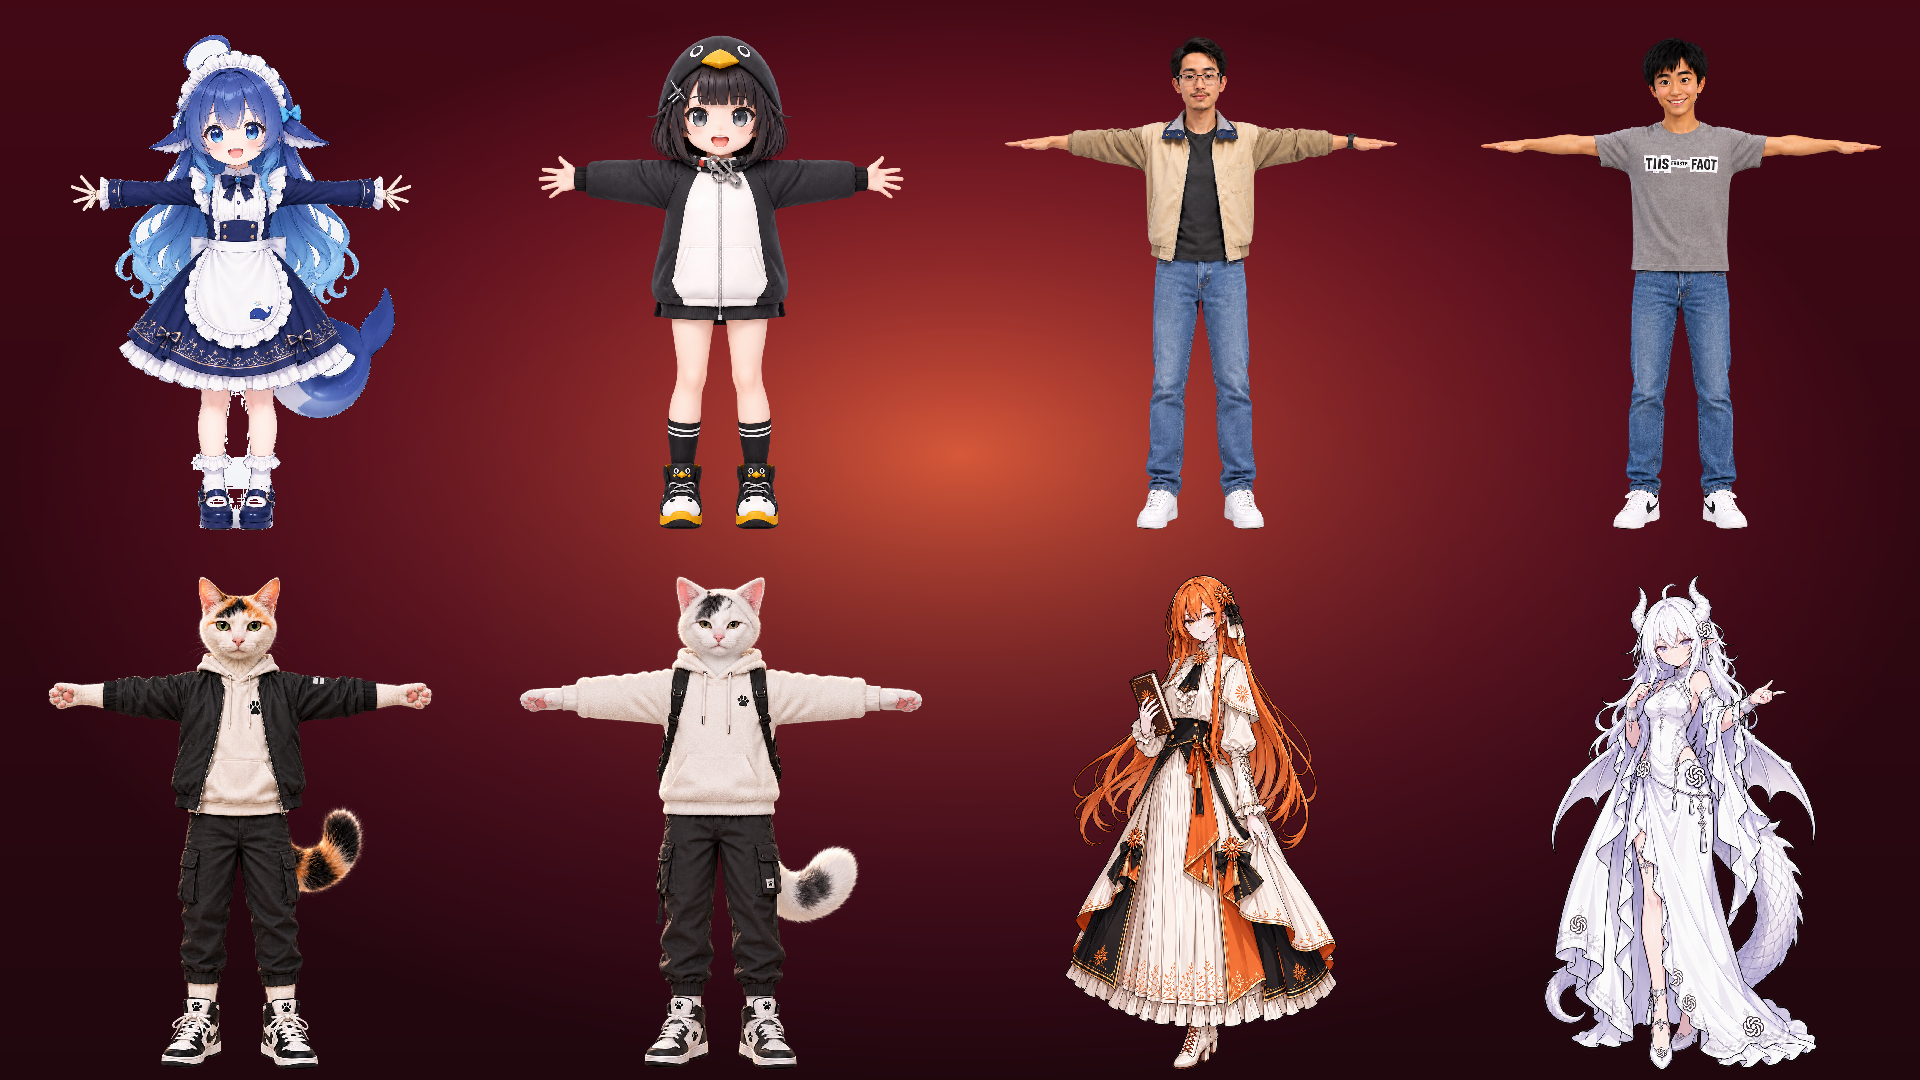
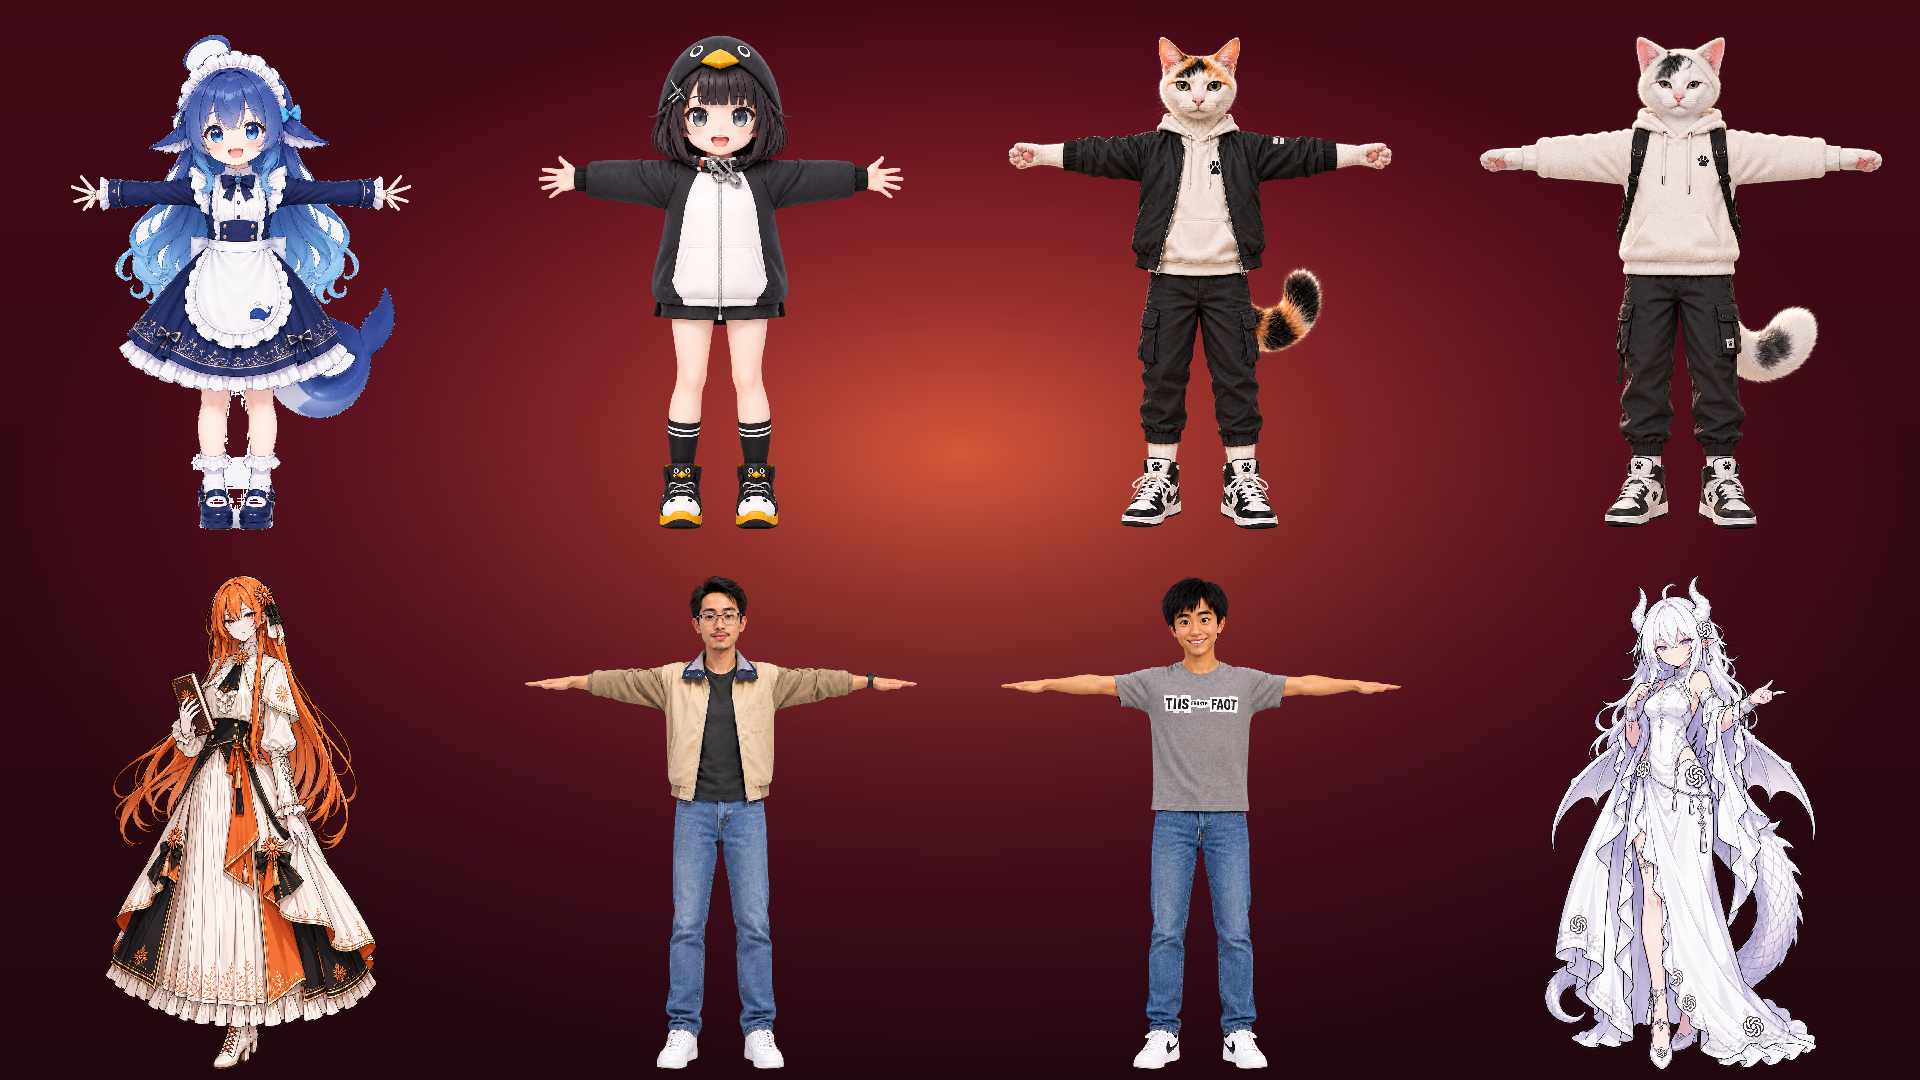
Center Feng and Tu, rotate all cast and move page links to second row

diff --git a/pv.js b/pv.js
@@ -29,7 +29,7 @@ const ARTS = {
     faces: [[181, 369], [588, 377], [919, 402], [1216, 372], [1486, 367], [1726, 380]]},
   // 招財喵布布八人：由 tools/build-group.mjs 把 tools/cutout-solo.mjs 的切圖拼成群像
   lucky8: {src: 'assets/ref/lucky8.png', crop: [0, 0, 1920, 1080],
-    faces: [[228, 104], [720, 104], [1198, 104], [1675, 104], [238, 644], [719, 645], [1204, 644], [1674, 644]]},
+    faces: [[228, 104], [720, 104], [718, 644], [1195, 644], [1198, 104], [1679, 105], [244, 644], [1674, 644]]},
   aiura: {src: 'assets/ref/aiura-group.png', crop: [0, 0, 1920, 1080],
     faces: [[976, 285], [425, 287], [1469, 294]]},
   // 超かぐや姫！：畫面取自歌詞影片，由 tools/cutout-kaguya.py 去背切圖並拼成群像
@@ -167,6 +167,7 @@ const ART = ARTS[song.art], AW = ART.crop[2], AH = ART.crop[3], FACES = ART.face
 const MEMBERS = song.cast.map(([sheet, idx, name, color], i) => ({sheet, idx, name: name || `No.${pad(i + 1)}`, color, img: null, meta: null}));
 const LEAD = clamp(+(song.lead ?? 0) | 0, 0, MEMBERS.length - 1);
 const OTHERS = MEMBERS.map((_, i) => i).filter(i => i !== LEAD);
+const CENTERS = song.cast[0][0] === 'lucky' ? [2,3] : [LEAD];
 const BASE_CHARACTER_GROUPS = [
   {sheet:'casual',title:'十二人 · 制服與便服',src:'assets/ref/casual-remade/group.png',colors:['#11bbde','#ff86b1'],count:12,solo:true},
   {sheet:'rooftop',title:'屋頂六人 · SUNRISE',src:'assets/ref/rooftop6.webp',colors:['#70ccff','#bdf1bc'],count:6},
@@ -377,11 +378,10 @@ function buildShots(){
       if(type === 'stage') o.variant = ['wide', 'close', 'screen', 'close2'][k % 4];
       if(type === 'typo'){ o.member = k % 2 ? OTHERS[(k >> 1) % OTHERS.length] : LEAD; o.side = k % 2; }
       if(type === 'film'){
-        const n2 = MEMBERS.length, a = k % n2;
-        let b = (a + 1 + (k*3) % Math.max(1, n2 - 1)) % n2; if(b === a) b = (a + 1) % n2;
-        o.pair = [a, b];
+        o.rotationOffset=k*2;
+        o.pair = [k*2 % MEMBERS.length, (k*2+1) % MEMBERS.length];
       }
-      if(type === 'windows'){ o.members = [LEAD, OTHERS[(k*2) % OTHERS.length], OTHERS[(k*2 + 1) % OTHERS.length]]; o.layout = k % 2; }
+      if(type === 'windows'){ o.rotationOffset=k*3; o.members=Array.from({length:3},(_,i)=>(k*3+i)%MEMBERS.length); o.layout = k % 2; }
       add(type, s, e, o);
     }
     if(next && next.start - c.end > 1 && c.end < outroStart){
@@ -810,12 +810,18 @@ function strip(x, w, tape, pos, t, kind){
   g.fillStyle = sg; g.fillRect(x, 0, w, H);
   g.textAlign = 'left'; g.textBaseline = 'alphabetic';
 }
+// Advance through the whole cast within each shot and across successive shots.
+function rotatingMembers(t,sh,count){
+  const offset=sh.rotationOffset ?? 0;
+  const turn=Math.floor(Math.max(0,t-sh.start)/2.4);
+  return Array.from({length:Math.min(count,MEMBERS.length)},(_,i)=>(offset+turn*count+i)%MEMBERS.length);
+}
 function shotFilm(t, sh, u){
   backdrop(t, {dim: .55});
   bokeh(t, 8, 1);
   const px = 540, pw = 840;
   // 中央視窗放實際在跳舞的成員（而不是靜態主視覺）
-  const pair = (sh.pair || [LEAD, (LEAD + 1) % MEMBERS.length]).filter(m => MEMBERS[m]?.img);
+  const pair = rotatingMembers(t,sh,2).filter(m => MEMBERS[m]?.img);
   g.save();
   g.beginPath(); g.rect(px, 0, pw, H); g.clip();
   const bg = g.createLinearGradient(0, 0, 0, H);
@@ -945,6 +951,7 @@ const WIN_LAYOUTS = [
   [[360, 460, 540, 580, .02], [960, 430, 580, 600, -.01], [1560, 460, 540, 580, .016]]
 ];
 function shotWindows(t, sh, u){
+  const members=rotatingMembers(t,sh,3);
   g.drawImage(C.pastel, 0, 0);
   g.save(); g.globalAlpha = .5; bokeh(t, 6, 4); g.restore();
   for(let i = 0; i < 14; i++){
@@ -955,7 +962,7 @@ function shotWindows(t, sh, u){
     g.fill(); g.restore();
   }
   WIN_LAYOUTS[sh.layout].forEach(([cx, cy, w, h, rot], i) => {
-    const m = sh.members[i], mem = MEMBERS[m], ap = easeBack((t - sh.start - i*.12)/.45);
+    const m = members[i % members.length], mem = MEMBERS[m], ap = easeBack((t - sh.start - i*.12)/.45);
     if(ap <= 0) return;
     g.save(); g.translate(cx, cy + Math.sin(t*1.4 + i*2)*8); g.rotate(rot); g.scale(ap, ap);
     const x = -w/2, y = -h/2, bar = 54;
@@ -976,7 +983,7 @@ function shotWindows(t, sh, u){
     g.font = `800 26px ${FONT.jp}`; g.fillStyle = '#ffffff'; g.textBaseline = 'middle';
     g.beginPath(); g.arc(x + 30, y + bar/2, 13, 0, Math.PI*2); g.fill();
     g.fillStyle = mem.color; g.beginPath(); g.arc(x + 30, y + bar/2, 6, 0, Math.PI*2); g.fill();
-    g.fillStyle = '#ffffff'; g.fillText(`${mem.name}.pv`, x + 54, y + bar/2 + 1);
+    g.fillStyle = '#ffffff'; g.fillText(mem.name, x + 54, y + bar/2 + 1);
     g.font = `700 15px ${FONT.cond}`; g.letterSpacing = '4px'; g.textAlign = 'right';
     g.fillText(`MEMBER ${pad(m + 1)}`, x + w - 120, y + bar/2 + 1); g.letterSpacing = '0px'; g.textAlign = 'left';
     for(let b = 0; b < 3; b++){ g.beginPath(); g.arc(x + w - 84 + b*28, y + bar/2, 10, 0, Math.PI*2); g.lineWidth = 3; g.strokeStyle = T.deep; g.fillStyle = '#ffffff'; g.fill(); g.stroke(); }
@@ -1097,7 +1104,12 @@ function shotStage(t, sh, u){
   }
   // 舞者：依卡司人數排成後排／中排／前排，中央是主唱。
   // nx、ny 是安全框裡的位置（ny 是把抬手和鞋底的餘裕算進去之後的腳底），nh 是希望的身高占比。
-  const O = OTHERS, spots = O.length > 11
+  const O = OTHERS, duo = CENTERS.length===2;
+  const supporting=MEMBERS.map((_,i)=>i).filter(i=>!CENTERS.includes(i));
+  const spots = duo
+    ? [...supporting.map((m,i)=>({nx:[.07,.20,.32,.68,.80,.93][i],ny:.72,nh:.40,m})),
+       {nx:.42,ny:1,nh:.56,m:CENTERS[0]},{nx:.58,ny:1,nh:.56,m:CENTERS[1]}]
+    : O.length > 11
     ? [...O.slice(0,6).map((m,i)=>({nx:(i+.5)/6,ny:.42,nh:.28,m})),
        ...O.slice(6,12).map((m,i)=>({nx:(i+.5)/6,ny:.71,nh:.30,m})),
        ...O.slice(12).map((m,i)=>({nx:[.12,.32,.68,.88][i],ny:1,nh:.34,m})),{nx:.5,ny:1,nh:.37,m:LEAD}]
@@ -1120,7 +1132,7 @@ function shotStage(t, sh, u){
        {nx:.50, ny:1, nh:.70, m:LEAD}];
   // 後排正中央會被主唱擋住。手張得很開的立繪，冒出的頭和手臂會像主唱的殘影，每個景別都不畫；
   // 較窄的立繪只在特寫拿掉，廣角仍留著當後排。
-  const centerBack = O.length >= 9 ? -1 : O.length >= 7 ? 2 : O.length >= 5 ? 1 : -1;  const intro = sh.variant === 'intro' ? clamp((t - .5)/1.5) : 1;
+  const centerBack = duo ? -1 : O.length >= 9 ? -1 : O.length >= 7 ? 2 : O.length >= 5 ? 1 : -1;  const intro = sh.variant === 'intro' ? clamp((t - .5)/1.5) : 1;
   const inv = (cam2, x, y) => [cam2.fx + (x - cam2.fx)/cam2.z, cam2.fy + (y - cam2.fy)/cam2.z];
   const corners = [[STAGE_SAFE.l, STAGE_SAFE.t], [STAGE_SAFE.r, STAGE_SAFE.t], [STAGE_SAFE.l, STAGE_SAFE.b], [STAGE_SAFE.r, STAGE_SAFE.b]].map(([x, y]) => inv(camFit, x, y));
   const box = {
@@ -1351,17 +1363,18 @@ function shotBike(t, sh, u){
   }
   g.restore();
   drawRoad(t, horizon, 380);
-  // 鏡頭貼近：主唱大台在前景，其餘成員在後方依遠近縮小（由遠而近畫）
+  // Every cast member gets a bicycle; the featured pair share the foreground.
   const R = 100;
   const ride = (m, cx, cy, sc, o) => { g.save(); g.translate(cx, cy); g.scale(sc, sc); drawRider(m, 0, 0, R, t, o); g.restore(); };
-  const O = OTHERS;
-  const plan = [
-    [O[0], W*.28, horizon + 190, .62, {speed: 290, cadence: 3.1, frame: 'rgba(47,175,156,.78)'}],
-    [O[1], W*.70, horizon + 204, .66, {speed: 300, cadence: 3.2, frame: 'rgba(47,175,156,.78)'}],
-    [O[2], W*.08, horizon + 300, 1.0, {speed: 350, cadence: 3.6, frame: '#249e8c'}],
-    [O[3], W*.89, horizon + 312, 1.04, {speed: 360, cadence: 3.7, frame: '#249e8c'}],
-    [LEAD, W*.40, horizon + 430, 1.5, {speed: 430, cadence: 4.2, frame: '#2faf9c'}]
-  ];
+  const others=MEMBERS.map((_,i)=>i).filter(i=>!CENTERS.includes(i));
+  const rows=Math.ceil(others.length/6),cols=Math.ceil(others.length/Math.max(1,rows));
+  const plan=others.map((m,i)=>{
+    const row=Math.floor(i/cols),count=Math.min(cols,others.length-row*cols),col=i%cols;
+    return [m,W*(col+.5)/count,horizon+(rows===1?170:70+row*100),rows===1?.62:.38+row*.05,
+      {speed:290+row*20,cadence:3.1+m*.04,frame:'rgba(47,175,156,.78)'}];
+  });
+  CENTERS.forEach((m,i)=>plan.push([m,W*(CENTERS.length===2?[.36,.64][i]:.5),horizon+420,1.05,
+    {speed:430,cadence:4.2,frame:'#2faf9c'}]));
   plan.forEach(([m, cx, cy, sc, o]) => { if(m !== undefined) ride(m, cx, cy, sc, o); });
   g.save(); g.strokeStyle = 'rgba(255,255,255,.35)'; g.lineWidth = 3;    // 速度線
   for(let i = 0; i < 16; i++){
@@ -1371,7 +1384,7 @@ function shotBike(t, sh, u){
     g.beginPath(); g.moveTo(x, y); g.lineTo(x + len, y); g.stroke();
   }
   g.restore();
-  const tag = MEMBERS[LEAD].name;
+  const tag = CENTERS.map(m=>MEMBERS[m].name).join(' · ');
   g.save(); g.font = `700 30px ${FONT.jp}`;
   const tw = g.measureText(tag).width;
   roundRect(W - 70 - tw - 40, H - 250, tw + 40, 52, 26); g.fillStyle = MEMBERS[LEAD].color; g.fill();
@@ -1387,6 +1400,7 @@ function groupPhoto(t, lt, cw, ch){
   const order = MEMBERS.map((_, i) => i).filter(i => i !== LEAD);
   const center = (rows-1)*cols + Math.floor((N-(rows-1)*cols)/2);
   order.splice(Math.min(center, order.length), 0, LEAD);
+  if(CENTERS.length===2) order.splice(0,order.length,0,1,4,5,6,2,3,7);
   const cellW = cw/cols, cellH = ch/rows, pl = pulse(t), en = Math.max(energy(t), .7);
   order.forEach((m, k) => {
     const mem = MEMBERS[m]; if(!mem?.img) return;
@@ -1479,7 +1493,8 @@ function shotCharacters(t,sh,u){
   const cols=solo?(n>12?6:n===12?6:n===10?5:Math.min(4,Math.max(1,n))):1,rows=solo?Math.ceil(n/cols):1;
   const cw=solo?gw/cols:0,chh=solo?gh/rows:0;
   actors.forEach((actor,i)=>{
-    const col=solo?i%cols:i,row=solo?Math.floor(i/cols):0;
+    const slot=group.sheet==='lucky'?[0,1,5,6,2,3,4,7][i]:i;
+    const col=solo?slot%cols:i,row=solo?Math.floor(slot/cols):0;
     const inRow=solo?Math.min(cols,n-row*cols):1;
     const h=solo?Math.min(chh*.9,cw*.95*actor.meta.h/actor.meta.w):actor.meta.h*scale;
     const x=solo?originX+(gw-inRow*cw)/2+(col+.5)*cw:originX+(actor.meta.source[0]+actor.meta.w/2)*scale;
@@ -1697,19 +1712,22 @@ function preview(buf){
   $('#rewind5').onclick = () => skip(-5);
   $('#forward5').onclick = () => skip(5);
   const fmt = s => `${Math.floor(s/60)}:${pad(Math.floor(s % 60))}`;
+  const startPlayback = () => audio.play().catch(e=>{
+    msg(e.name==='NotAllowedError' ? '瀏覽器已暫停自動播放，請按「▶ 播放」開始。' : '播放失敗：'+e.message);
+  });
   play.disabled = false; play.textContent = '▶ 播放';
   play.onclick = () => {
     window.PV.hold=false;
     if(audio.currentTime>=A.dur) audio.currentTime=0;
-    audio.paused ? audio.play().catch(e=>msg('播放失敗：'+e.message)) : audio.pause();
+    audio.paused ? startPlayback() : audio.pause();
   };
-  audio.onplay = () => { play.textContent = '❚❚ 暫停'; };
+  audio.onplay = () => { msg(''); play.textContent = '❚❚ 暫停'; };
   audio.onpause = () => { play.textContent = '▶ 播放'; };
   seek.oninput = () => { window.PV.hold=false;audio.currentTime = seek.value/1000*A.dur; };
   const start = clamp(+(params.get('t') || 0),0,A.dur);
   audio.addEventListener('loadedmetadata',()=>{
     audio.currentTime=start;
-    if(params.get('autoplay')==='1') audio.play().catch(e=>msg('播放失敗：'+e.message));
+    if(params.get('autoplay')==='1') startPlayback();
   },{once:true});
   addEventListener('keydown', e => { if(e.code === 'Space' && e.target === document.body){ e.preventDefault(); play.click(); } });
   let idle = 0; addEventListener('pointermove', () => { idle = performance.now(); $('#ui').classList.remove('idle'); });

diff --git a/dance.js b/dance.js
@@ -113,7 +113,7 @@ function drawDancer(m, x, y, s, st){
   if(prefs.danceStyle === 'anime' && window.SpriteDancers?.ready){
     const fit=Math.min(1, CW/CH/2.05);
     const crowded=dancers.length>12;
-    SpriteDancers.draw(g,m.index,x,y,CH*(st.mic ? (crowded?.43:.53) : (crowded?.29:.43))*fit,{
+    SpriteDancers.draw(g,m.index,x,y,CH*(st.mic ? (crowded?.43:st.duet?.47:.53) : (crowded?.29:.43))*fit,{
       wave:st.armWave,energy:st.energy,hop:st.hopY*CH/155,
       tilt:st.tilt,squash:st.squash*.45,mouth:st.mouth,lead:st.mic
     });
@@ -262,7 +262,8 @@ function frame(dt, playing){
     window.SpriteRig?.setCacheLimit?.(cnt);
   }
   const lead = Math.max(0, Math.min(cnt - 1, prefs.danceLead === 'auto' ? (song.lead || 0) : (+prefs.danceLead || 0)));
-  const order = Array.from({length: cnt - 1}, (_, k) => (lead + k + 1) % cnt);
+  const centers=set==='lucky'&&prefs.danceLead==='auto' ? [2,3] : [lead];
+  const order = Array.from({length: cnt - 1}, (_, k) => (lead + k + 1) % cnt).filter(i=>!centers.includes(i));
   const p = phase(), moveFn = MOVES[Math.floor(p/8) % MOVES.length];
   const strength=+prefs.danceEnergy || 1;
   const amp = playing ? (1.6 + 2.6*clamp(level, 0, 1))*strength : 0;
@@ -276,7 +277,7 @@ function frame(dt, playing){
     m.blinkT = Math.max(0, m.blinkT - dt);
   }
 
-  const slots = backSlots(order.length);
+  const slots = centers.length===2 ? [[.07,.60],[.20,.60],[.32,.60],[.68,.60],[.80,.60],[.93,.60]] : backSlots(order.length);
   order.forEach((mi, k) => {
     const [fx, fy] = slots[k], left = fx < .5;
     const pk = p - k*.05;
@@ -294,18 +295,18 @@ function frame(dt, playing){
   const mv = moveFn(p);
   const mouth = singing && playing ? clamp((vocal - .1)*3.2, 0, 1) : 0;
   const hopL = playing ? AS(p)*amp*.55*mv.hop : Math.max(0, breath);
-  const sx = CW*.55, sy = CH*.72, ss = unit*.38;
-  drawDancer(dancers[lead], sx, sy, ss, {
+  const sx = CW*(centers.length===2?.42:.55), sy = CH*(centers.length===2?.76:.72), ss = unit*.38;
+  centers.forEach((mi,i)=>drawDancer(dancers[mi],centers.length===2?CW*[.42,.58][i]:sx,sy,ss,{
     la: singing ? mv.la : mv.la, ra: 2.72 + .08*S(p), tilt: mv.tilt*.5,
     hopY: hopL, squash: playing ? .04*Math.pow(1 - AS(p), 6)*level : 0, flare: hopL*.25,
     sway: S(p/2),armWave:S(p/2),energy:playing ? strength : 0,
-    happy: false, blink: MEMBERS[lead % MEMBERS.length].blinkT > 0 && !mouth, mouth, mic: true
-  });
+    happy: false, blink: MEMBERS[mi % MEMBERS.length].blinkT > 0 && !mouth, mouth:mi===lead?mouth:0, mic:true,duet:centers.length===2
+  }));
   const activeStyle=prefs.danceStyle === 'anime' && window.SpriteDancers?.ready ? 'anime' : 'chibi';
   const mode=an && media.kind==='file' ? 'MP3 音量／節拍驅動' : '固定 120 BPM';
   const label=(activeStyle==='anime' ? `${cnt} 位參考人物` : `${cnt} 位 Q 版偶像`)+' · '+(playing ? mode : '按播放開始');
   if(label!==lastStatus){lastStatus=label;const el=document.getElementById('danceStatus');if(el)el.textContent=label;}
-  info={style:activeStyle,count:cnt,lead,playing,singing,mouth,phase:p,mode};
+  info={style:activeStyle,count:cnt,lead,centers,playing,singing,mouth,phase:p,mode};
 
   // 音符
   if(prefs.particles && singing && playing && mouth > .15){

diff --git a/index.html b/index.html
@@ -28,6 +28,7 @@ body{--ui-h:104px;display:grid;place-items:center;box-sizing:border-box;padding-
 #volumeValue{font-size:12px;min-width:4ch;text-align:right;font-variant-numeric:tabular-nums}
 #time{font:13px Menlo,monospace;white-space:nowrap}
 #ui a{color:#9fd2ff;font-size:13px;white-space:nowrap}
+.player-links{display:flex;flex-wrap:wrap;align-items:center;gap:8px 16px;flex-basis:100%;order:6}
 #msg{position:fixed;top:16px;left:50%;translate:-50% 0;font-size:14px;background:rgba(0,0,0,.6);padding:6px 12px;border-radius:8px}
 #msg:empty{display:none}
 body.render #ui,body.render #msg{display:none}
@@ -56,9 +57,11 @@ body.render #pv{width:min(100vw,calc(100vh*16/9))}
     <input id="volume" type="range" min="0" max="100" step="1" value="100" aria-label="音量" disabled>
     <span id="volumeValue">100%</span>
   </div>
-  <a id="modeLink" href="index.html?mode=characters">人物 PV</a>
-  <a href="cast.html">切圖</a>
-  <a href="v2.html">第二版本：歌詞播放器 →</a>
+  <nav class="player-links" aria-label="播放器頁面">
+    <a id="modeLink" href="index.html?mode=characters">人物 PV</a>
+    <a href="cast.html">切圖</a>
+    <a href="v2.html">第二版本：歌詞播放器 →</a>
+  </nav>
 </div>
 <div id="msg"></div>
 <script>

diff --git a/README.md b/README.md
@@ -47,6 +47,8 @@ macOS 也可雙擊 `啟動播放器.command`，會在終端機啟動伺服器並
 
 幸運八人的素材來自獨立立繪，使用內建 imagegen 去背。牙妹已依使用者提供的橘髮持書圖替換成 Claude 娘，魚妹改為白髮龍角的 GPT 娘；鯨魚娘、咕咕嘎嘎、鋒兄、塗哥、喵布布、喵白白沿用既有切圖。國語、英語、日語與粵語版共用此八人卡司，兩版播放器、人物 PV 與圖庫同步更新。來源對照與完整提示見 [assets/ref/lucky-remade/README.md](assets/ref/lucky-remade/README.md)。
 
+四版的舞台、騎車、群像與人物 PV 皆讓鋒兄、塗哥並列中央；第二版預設也使用雙 C 位，手動選主唱時可覆寫。騎車鏡頭顯示全員，雙人膠卷與三人視窗每 2.4 秒依序輪換人物，視窗標題顯示姓名。
+
 - `assets/ref/lucky-remade/lucky-1.png`～`lucky-7.png` 保存七張透明原圖，保留服裝、白鞋與配件；Claude 娘保留書與長裙，GPT 娘保留龍角、翅膀、尾巴及 GPT 紋飾，依使用者要求移除右上方的藍色 Sora2 符號與軌跡。
 - `node tools/rebuild-lucky.mjs`：依 alpha 裁切空白、加透明邊距，更新 `assets/ref/cast/lucky-1.png`～`lucky-7.png` 與 `cast.json`，再重建群像。`node tools/cutout-solo.mjs` 會自動使用相同流程，避免舊白底填充挖掉白鞋。
 - `node tools/build-group.mjs`：單獨把目前八張切圖拼成 1920×1080 群像主視覺 `assets/ref/lucky8.png`，並印出 `ARTS.lucky8` 要用的臉部座標。
